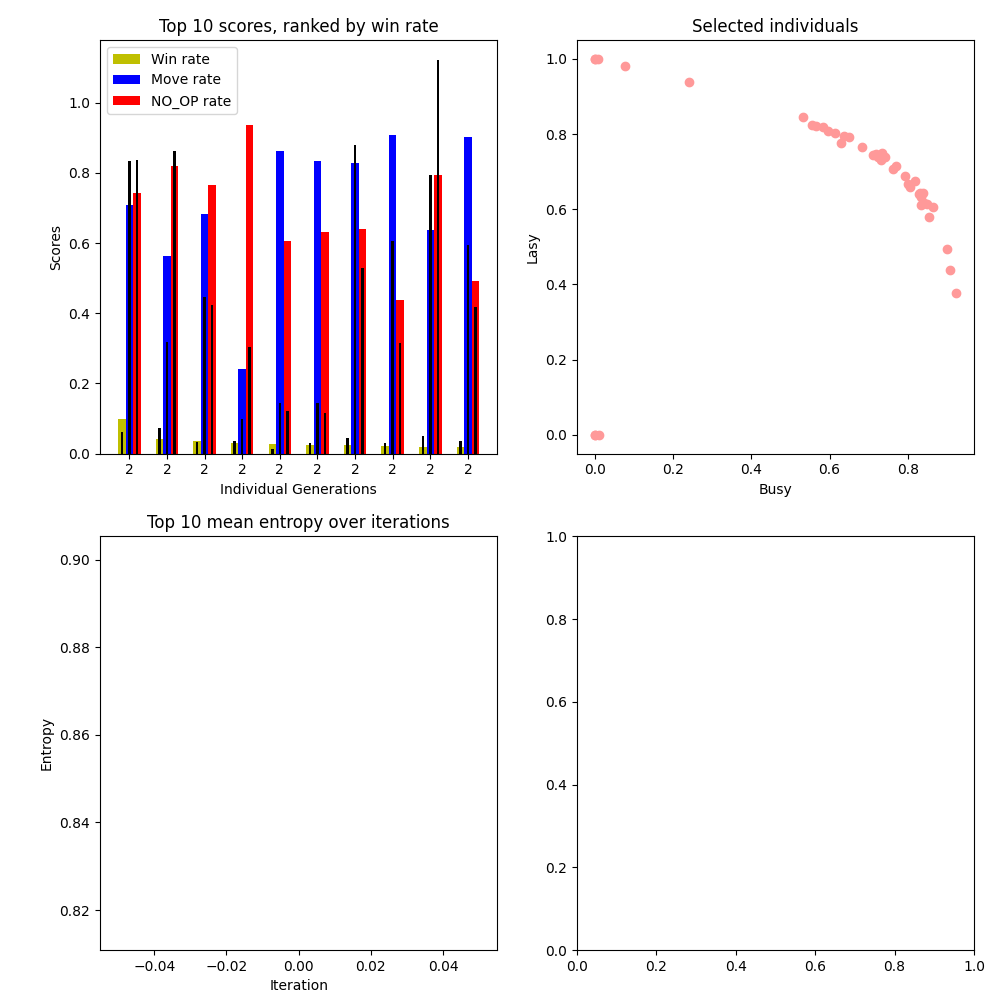
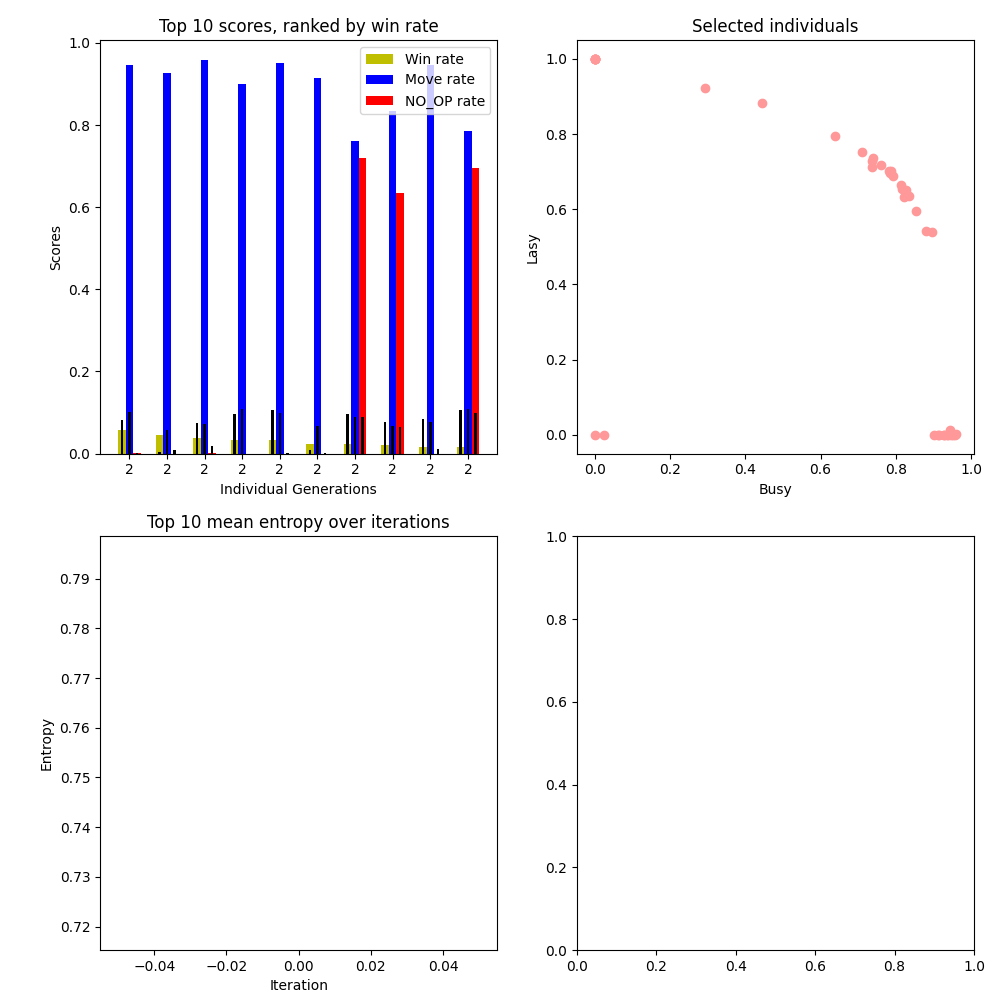
3-16

diff --git a/evolution_server.py b/evolution_server.py
@@ -179,6 +179,7 @@ class EvolutionServer:
             'move_rate': 0.0,
             'win_rate': 0.0,
             'entropy': 0.0,
+            'eval_length': 0,
         }
         frame_count = 0
         n_games = 0
@@ -192,11 +193,11 @@ class EvolutionServer:
                 action, dist_ = player.pi.policy.get_action(observation, return_dist=True, eval=True)
                 dist += dist_
                 actions[action] += 1
-                observation_, reward, done, info = self.env.step(action) # players pad only moves every two frames
+                observation_, reward, done, info = self.env.step(action)  # players pad only moves every two frames
                 last_pos = self.util.preprocess(observation_)[4]
                 observation_, reward, done, info = self.env.step(action)
                 observation_ = self.util.preprocess(observation_)
-                observation = np.concatenate([observation[len(observation)//2:],observation_])
+                observation = np.concatenate([observation[len(observation)//2:], observation_])
                 r['game_reward'] += reward
                 if reward < 0:
                     r['total_punition'] += reward
@@ -208,16 +209,17 @@ class EvolutionServer:
                 r['move_rate'] += moved
 
                 frame_count += 1
-            if done:
-                n_games += 1
+
+            n_games += 1
 
         print(actions)
-        r['avg_length'] = frame_count / float(n_games + 1)
+        r['avg_length'] = frame_count / float(n_games)
         r['win_rate'] = (np.abs(r['game_reward'] - r['total_punition'])) / float(np.abs(r['game_reward'] - 2 * r['total_punition']))
         r['no_op_rate'] = r['no_op_rate'] / float(frame_count)
         r['move_rate'] = r['move_rate'] / float(frame_count)
         dist /= float(frame_count)
         r['entropy'] = -np.sum(np.log(dist+1e-8) * dist)
+        r['eval_length'] = frame_count
         return r
 
     def play(self, player: Individual, max_frame, observation=None):

diff --git a/population.py b/population.py
@@ -42,8 +42,8 @@ class Individual:
 class LightIndividual:
     def __init__(self, goal_dim, generation=1):
 
-        self.reward_weight = np.random.lognormal(-1, 2, (goal_dim,))
-        self.reward_weight = np.exp(-self.reward_weight)
+        self.reward_weight = np.random.lognormal(-1, 3, (goal_dim,))
+        self.reward_weight[0] *= 2
         self.behavior_stats = {}
         self.gen = generation
         self.model_weights = None
